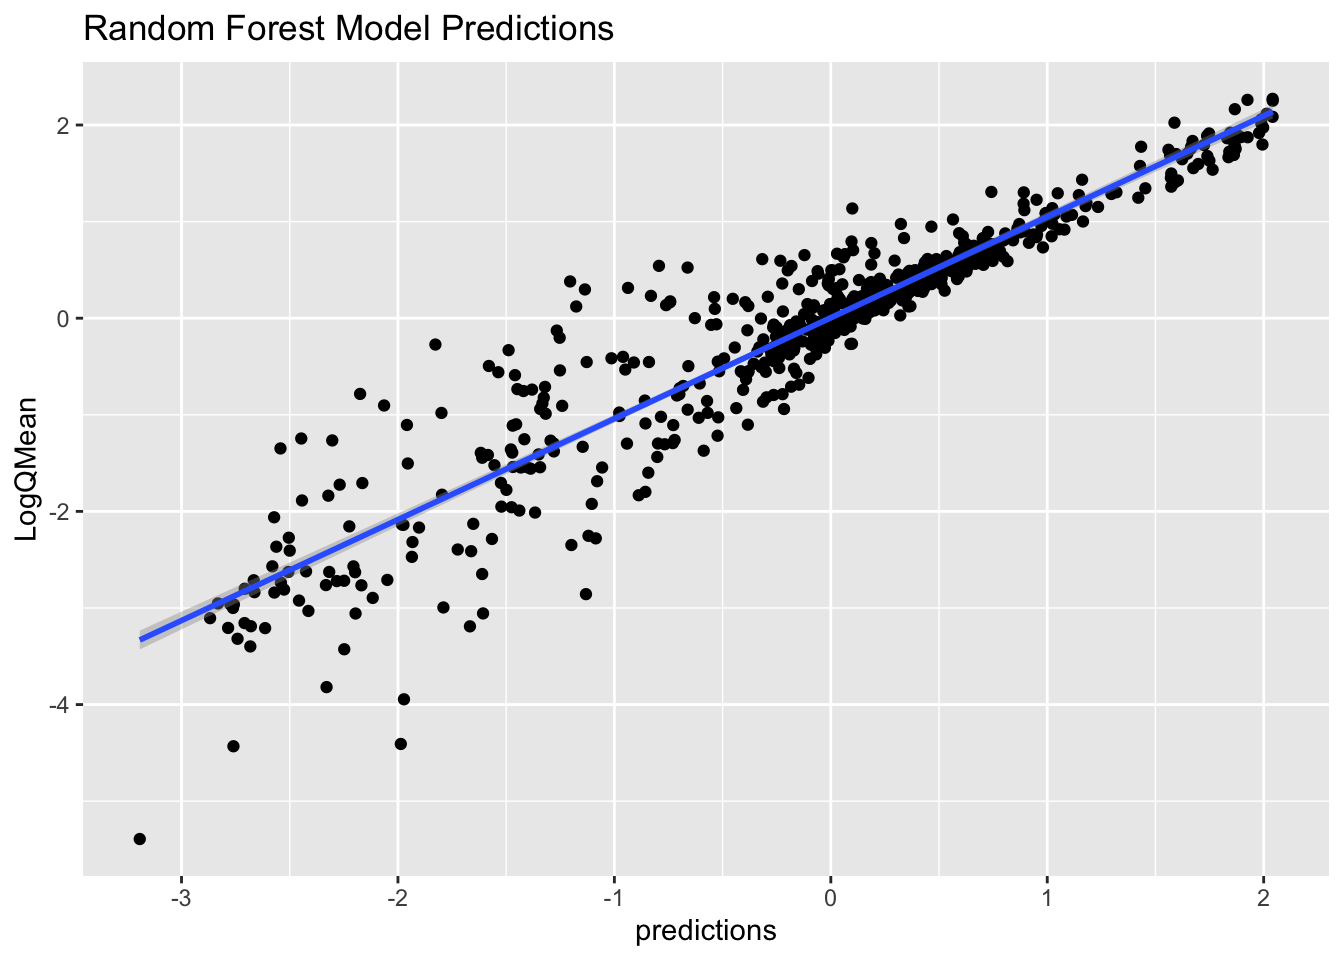
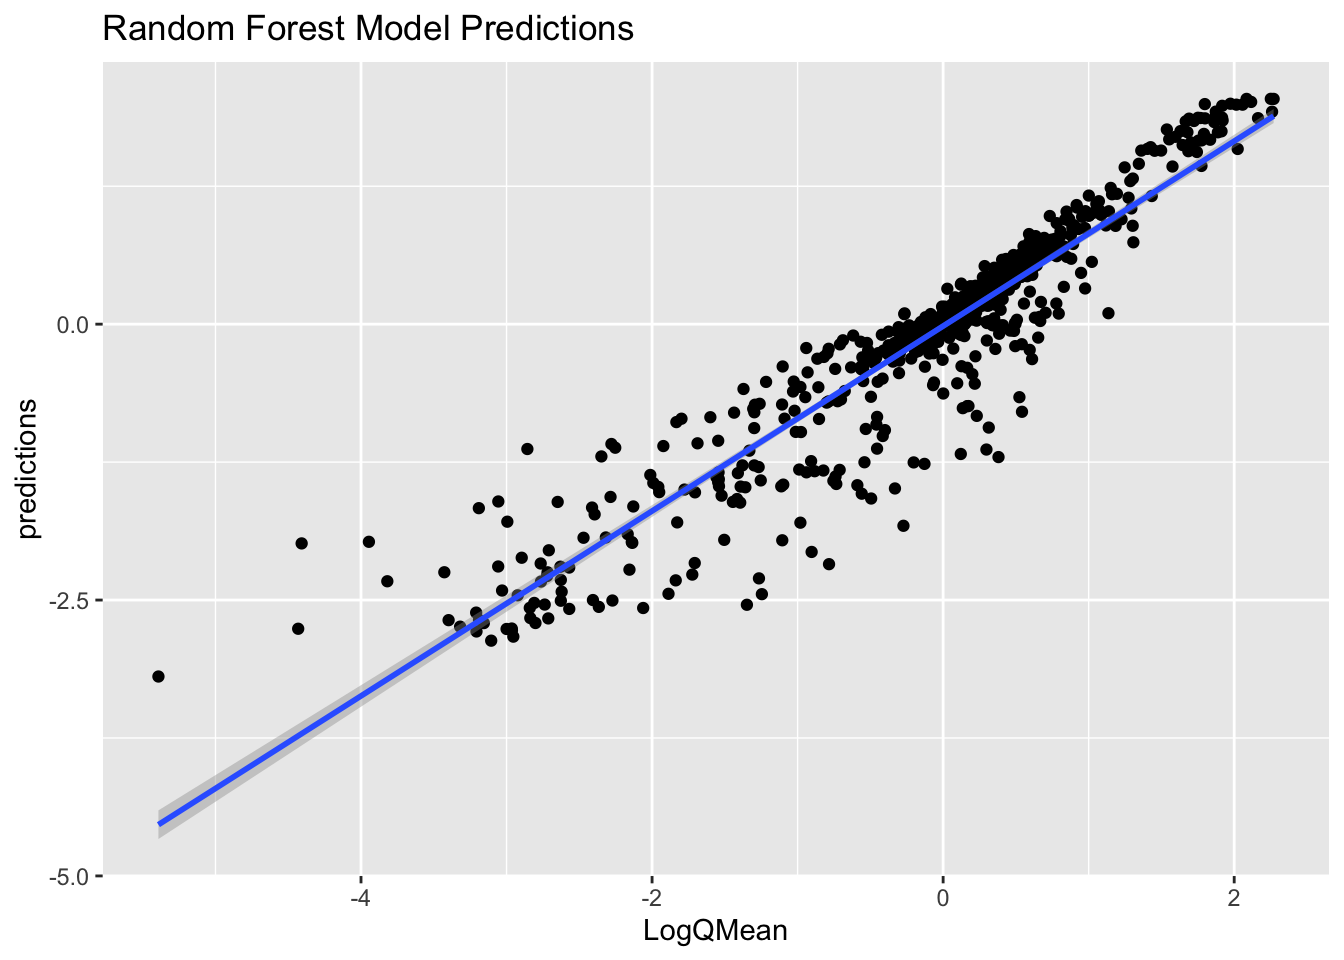
FIXED FINAL GRAPH RE-RENDERED

diff --git a/hyperparameter-tuning.html b/hyperparameter-tuning.html
@@ -761,10 +761,10 @@ grob.</code></pre>
 <section id="ggplot-predictions" class="level4">
 <h4 class="anchored" data-anchor-id="ggplot-predictions">ggplot Predictions</h4>
 <div class="cell">
-<div class="sourceCode cell-code" id="cb77"><pre class="sourceCode r code-with-copy"><code class="sourceCode r"><span id="cb77-1"><a href="#cb77-1" aria-hidden="true" tabindex="-1"></a>predictions<span class="ot">&lt;-</span><span class="fu">ggplot</span>(full_pred, <span class="fu">aes</span>(<span class="at">x=</span>.pred, <span class="at">y=</span>logQmean))<span class="sc">+</span></span>
+<div class="sourceCode cell-code" id="cb77"><pre class="sourceCode r code-with-copy"><code class="sourceCode r"><span id="cb77-1"><a href="#cb77-1" aria-hidden="true" tabindex="-1"></a>predictions<span class="ot">&lt;-</span><span class="fu">ggplot</span>(full_pred, <span class="fu">aes</span>(<span class="at">x=</span>logQmean, <span class="at">y=</span>.pred))<span class="sc">+</span></span>
 <span id="cb77-2"><a href="#cb77-2" aria-hidden="true" tabindex="-1"></a>  <span class="fu">geom_point</span>()<span class="sc">+</span></span>
 <span id="cb77-3"><a href="#cb77-3" aria-hidden="true" tabindex="-1"></a>  <span class="fu">geom_smooth</span>(<span class="at">method =</span> <span class="st">'lm'</span>)<span class="sc">+</span></span>
-<span id="cb77-4"><a href="#cb77-4" aria-hidden="true" tabindex="-1"></a>  <span class="fu">labs</span>(<span class="at">x=</span><span class="st">"predictions"</span>, <span class="at">y=</span><span class="st">"LogQMean"</span>, <span class="at">title=</span><span class="st">"Random Forest Model Predictions"</span>)</span>
+<span id="cb77-4"><a href="#cb77-4" aria-hidden="true" tabindex="-1"></a>  <span class="fu">labs</span>(<span class="at">x=</span><span class="st">"LogQMean"</span>, <span class="at">y=</span><span class="st">"predictions"</span>, <span class="at">title=</span><span class="st">"Random Forest Model Predictions"</span>)</span>
 <span id="cb77-5"><a href="#cb77-5" aria-hidden="true" tabindex="-1"></a>predictions</span></code><button title="Copy to Clipboard" class="code-copy-button"><i class="bi"></i></button></pre></div>
 <div class="cell-output cell-output-stderr">
 <pre><code>`geom_smooth()` using formula = 'y ~ x'</code></pre>
@@ -789,10 +789,10 @@ grob.</code></pre>
 <section id="ggplot-residuals" class="level4">
 <h4 class="anchored" data-anchor-id="ggplot-residuals">ggplot Residuals</h4>
 <div class="cell">
-<div class="sourceCode cell-code" id="cb81"><pre class="sourceCode r code-with-copy"><code class="sourceCode r"><span id="cb81-1"><a href="#cb81-1" aria-hidden="true" tabindex="-1"></a>residuals<span class="ot">&lt;-</span><span class="fu">ggplot</span>(full_pred_mutated, <span class="fu">aes</span>(<span class="at">x=</span>residuals, <span class="at">y=</span>logQmean))<span class="sc">+</span></span>
+<div class="sourceCode cell-code" id="cb81"><pre class="sourceCode r code-with-copy"><code class="sourceCode r"><span id="cb81-1"><a href="#cb81-1" aria-hidden="true" tabindex="-1"></a>residuals<span class="ot">&lt;-</span><span class="fu">ggplot</span>(full_pred_mutated, <span class="fu">aes</span>(<span class="at">x=</span>logQmean, <span class="at">y=</span>residuals))<span class="sc">+</span></span>
 <span id="cb81-2"><a href="#cb81-2" aria-hidden="true" tabindex="-1"></a>  <span class="fu">geom_point</span>()<span class="sc">+</span></span>
 <span id="cb81-3"><a href="#cb81-3" aria-hidden="true" tabindex="-1"></a>  <span class="fu">geom_smooth</span>(<span class="at">method=</span><span class="st">'lm'</span>)<span class="sc">+</span></span>
-<span id="cb81-4"><a href="#cb81-4" aria-hidden="true" tabindex="-1"></a>  <span class="fu">labs</span>(<span class="at">x=</span><span class="st">"residuals"</span>, <span class="at">y=</span><span class="st">"LogQMean"</span>, <span class="at">title=</span><span class="st">"Residuals for Random Forest Model"</span>)</span>
+<span id="cb81-4"><a href="#cb81-4" aria-hidden="true" tabindex="-1"></a>  <span class="fu">labs</span>(<span class="at">x=</span><span class="st">"LogQMean"</span>, <span class="at">y=</span><span class="st">"residuals"</span>, <span class="at">title=</span><span class="st">"Residuals for Random Forest Model"</span>)</span>
 <span id="cb81-5"><a href="#cb81-5" aria-hidden="true" tabindex="-1"></a>residuals</span></code><button title="Copy to Clipboard" class="code-copy-button"><i class="bi"></i></button></pre></div>
 <div class="cell-output cell-output-stderr">
 <pre><code>`geom_smooth()` using formula = 'y ~ x'</code></pre>
